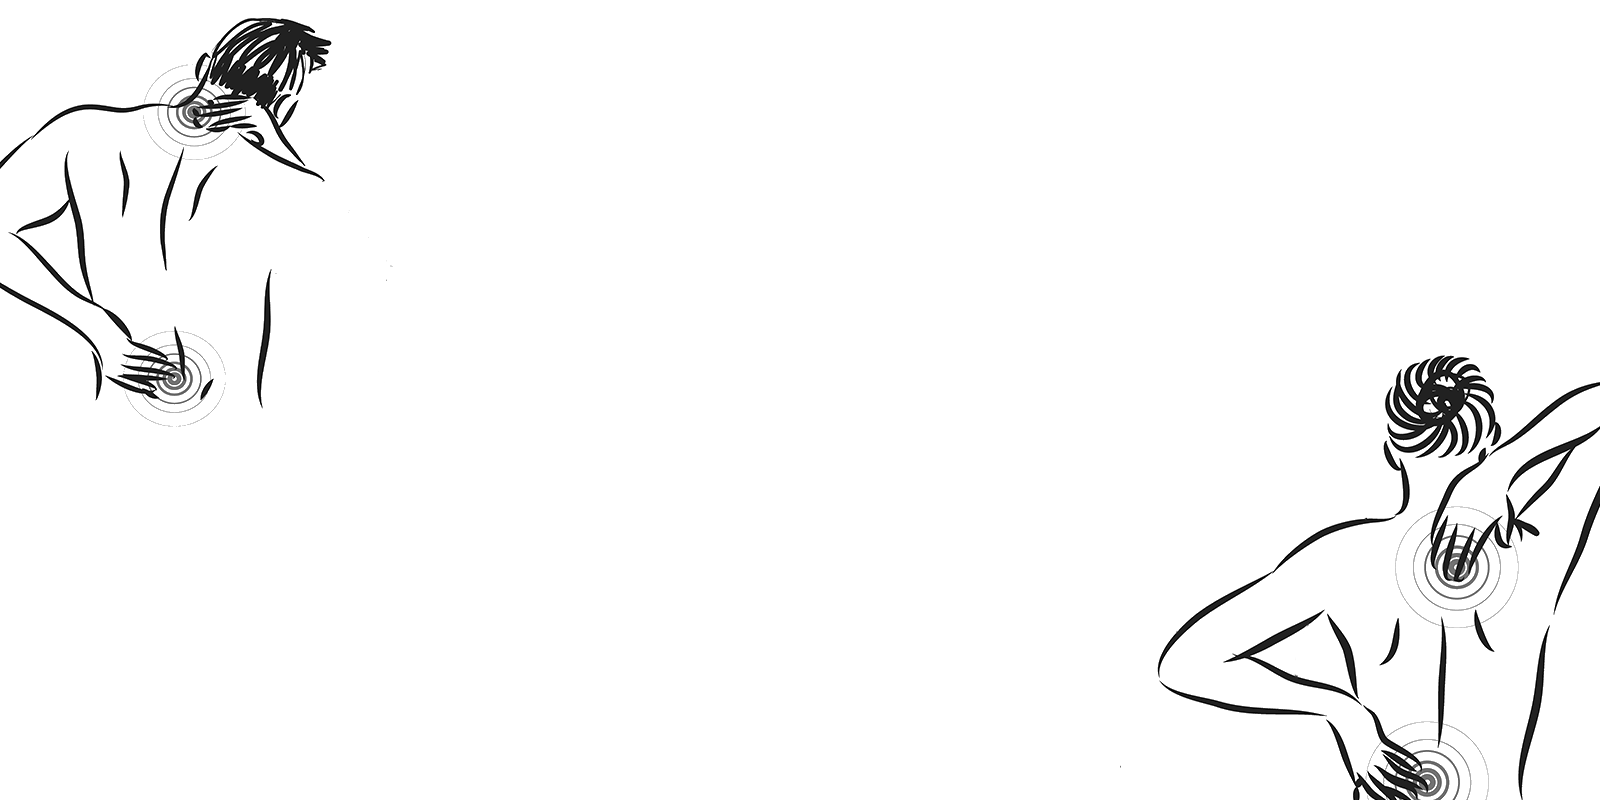
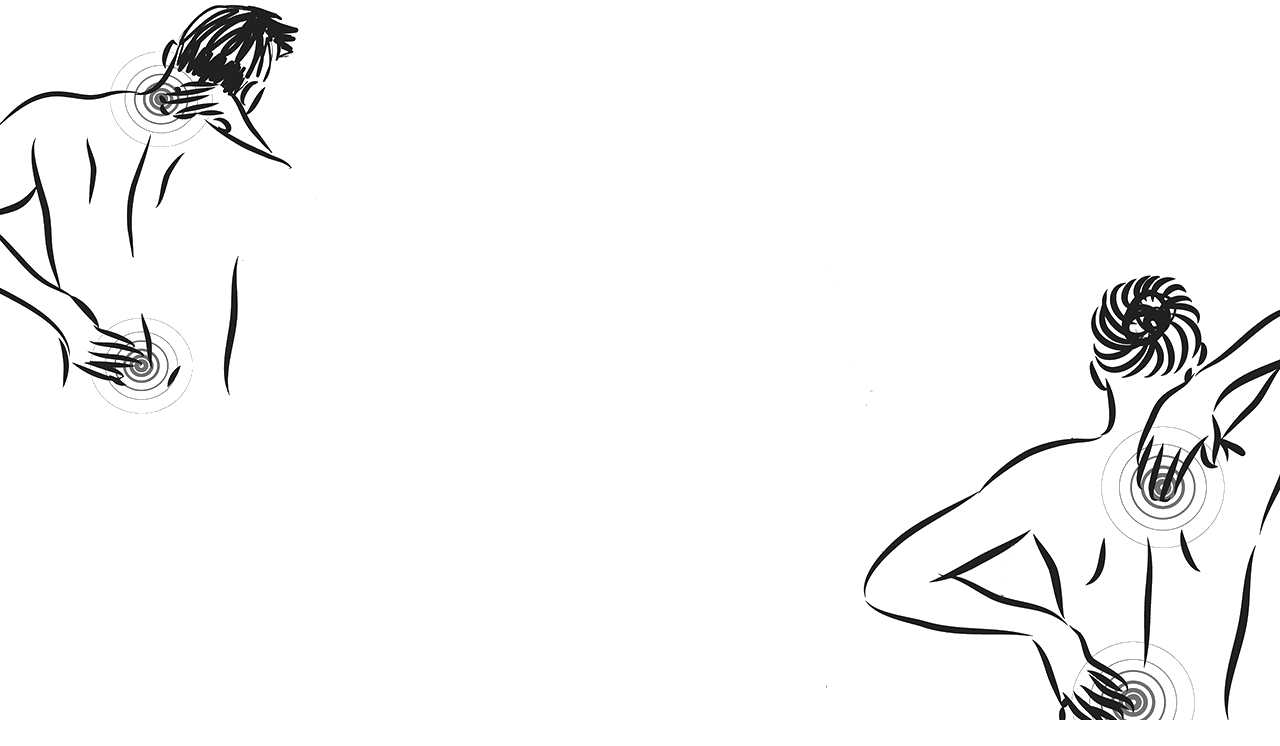
background image on ipad

diff --git a/public/stylesheets/index_mobile.css b/public/stylesheets/index_mobile.css
@@ -949,6 +949,10 @@
     right: -3em;
   }
 
+  .reviews.scrollable, .schedule.scrollable {
+    background-size: contain;
+  }
+
 
 }
 
@@ -1005,6 +1009,23 @@
   .rates .table .three.columns {
     width: 20%;
     margin-right: 2%;
+  }
+
+  .reviews.scrollable, .schedule.scrollable {
+    background: none;
+  }
+
+  .background_overlay {
+    width: 100%;
+  }
+
+  .schedule_instructions {
+    background-color: white;
+    width: 90%;
+  }
+
+  #calendar {
+    width: 90%;
   }
 
 }

diff --git a/public/stylesheets/alternative.css b/public/stylesheets/alternative.css
@@ -833,9 +833,8 @@ box-shadow: 1px 1px 10px 1px rgba(0,0,0,0.75);
 }
 /*REVIEWS*/
 .reviews.scrollable {
-  background-image: url(../images/b.png);
-  background-size: 100% 100%;
-  background-repeat: no-repeat;
+  background: url(../images/b.png) no-repeat center center fixed;
+  background-size: cover;
   background-attachment: fixed;
 }
 
